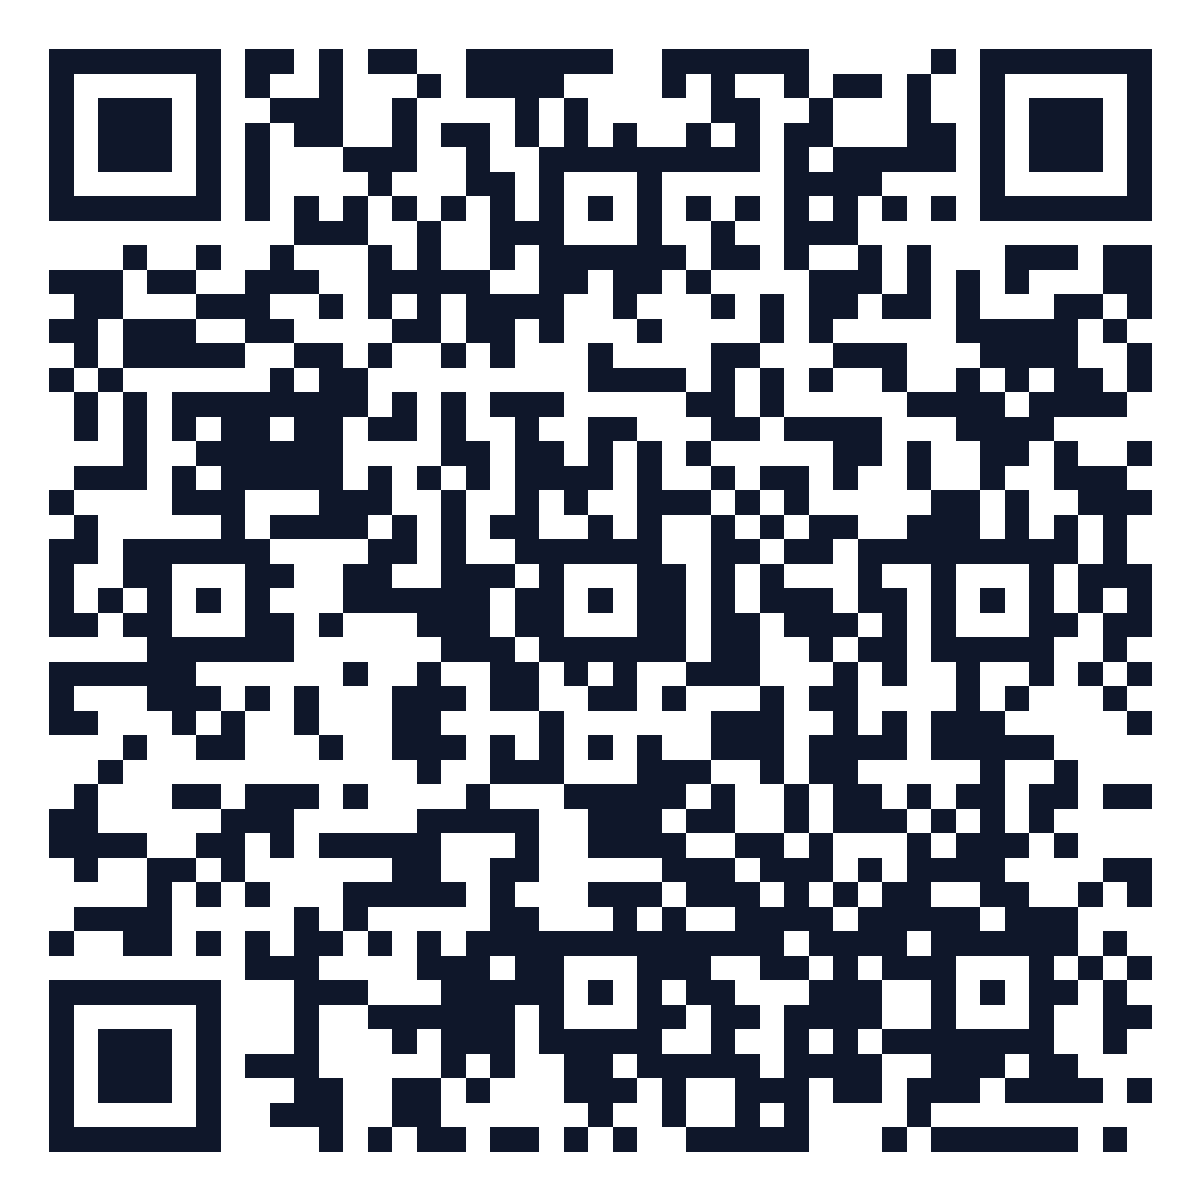
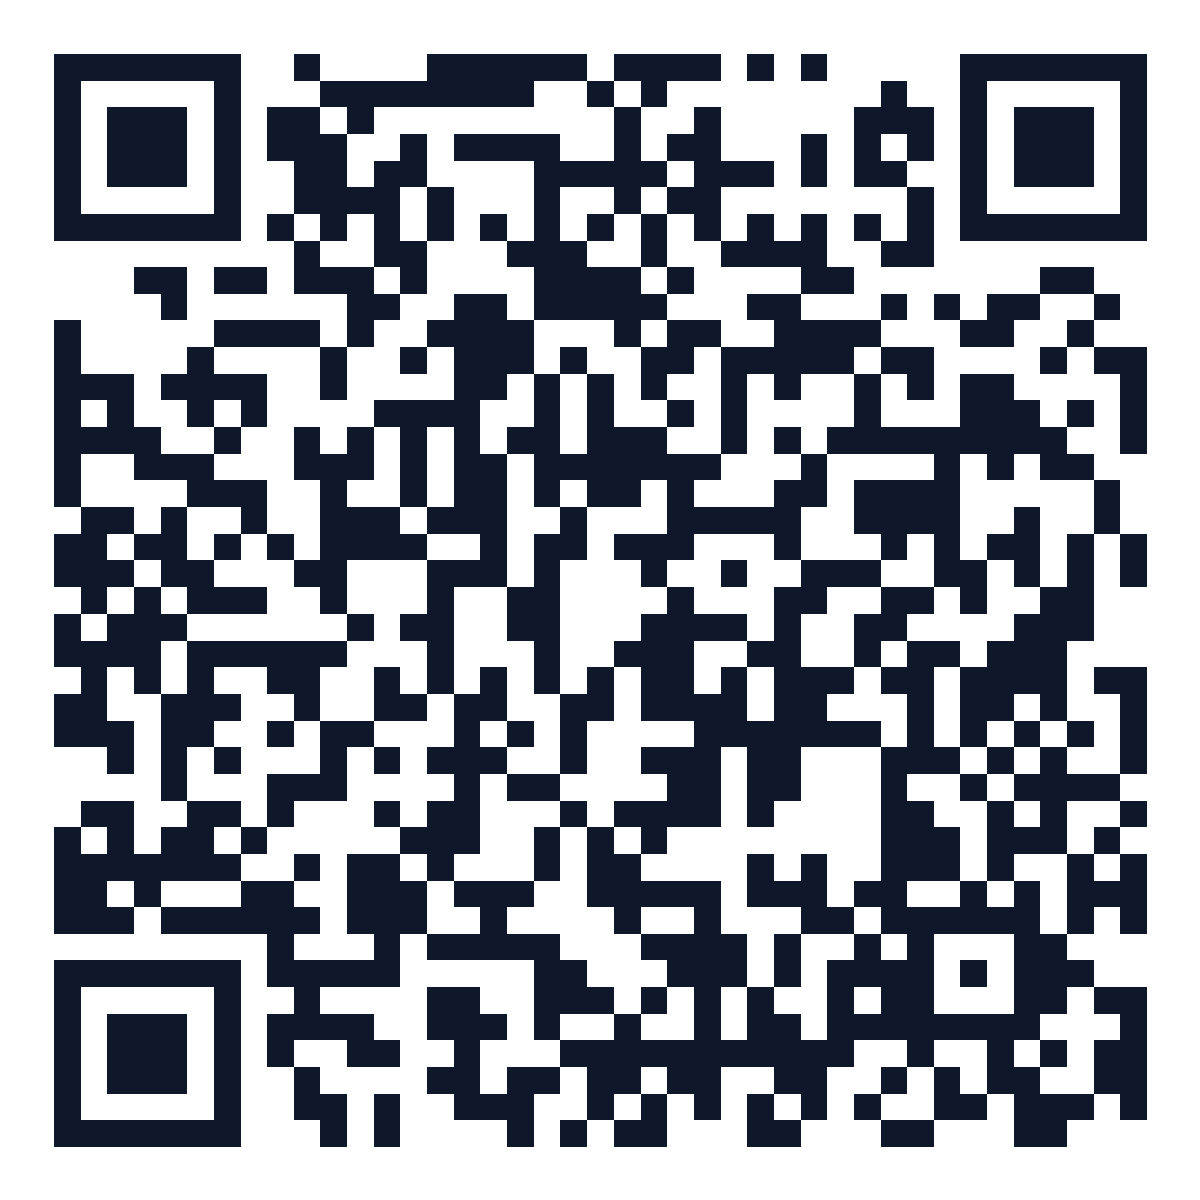
Update URLs and QR codes for oslocenter-kenya-programs.pages.dev

diff --git a/qr-print.html b/qr-print.html
@@ -50,7 +50,7 @@
       <div>
         <img src="assets/qr/wyde-qr.png" alt="WYDE QR Code" class="stand-qr" />
         <p class="stand-instructions">📲 Scan to View Online Program</p>
-        <p class="stand-url">https://pizzel.github.io/elementaita-programs-2026/wyde.html</p>
+        <p class="stand-url">https://oslocenter-kenya-programs.pages.dev/wyde.html</p>
       </div>
       <div class="stand-footer">
         The Oslo Center (TOC) & KIC · WYDE Political Parties / ENoP / European Union
@@ -66,7 +66,7 @@
       <div>
         <img src="assets/qr/ewip-qr.png" alt="EWIP QR Code" class="stand-qr" />
         <p class="stand-instructions">📲 Scan to View Online Program</p>
-        <p class="stand-url">https://pizzel.github.io/elementaita-programs-2026/ewip.html</p>
+        <p class="stand-url">https://oslocenter-kenya-programs.pages.dev/ewip.html</p>
       </div>
       <div class="stand-footer">
         The Oslo Center (TOC) & KIC · Empowering Women in Politics

diff --git a/ewip.html b/ewip.html
@@ -147,7 +147,7 @@
         <div class="qr-preview-box">
           <img id="modal-qr-img" class="qr-image-display" src="assets/qr/ewip-qr.png" alt="EWIP QR Code" />
           <p class="qr-title">Scan to View EWIP Kenya Program</p>
-          <p class="qr-url-text" id="modal-qr-url">https://pizzel.github.io/elementaita-programs-2026/ewip.html</p>
+          <p class="qr-url-text" id="modal-qr-url">https://oslocenter-kenya-programs.pages.dev/ewip.html</p>
         </div>
         <div class="qr-actions-grid">
           <a id="btn-download-qr-png" class="btn-primary" href="assets/qr/ewip-qr.png" download="ewip-program-qr.png" style="background:#c2410c;">

diff --git a/wyde.html b/wyde.html
@@ -148,7 +148,7 @@
         <div class="qr-preview-box">
           <img id="modal-qr-img" class="qr-image-display" src="assets/qr/wyde-qr.png" alt="WYDE QR Code" />
           <p class="qr-title">Scan to View WYDE Youth Program</p>
-          <p class="qr-url-text" id="modal-qr-url">https://pizzel.github.io/elementaita-programs-2026/wyde.html</p>
+          <p class="qr-url-text" id="modal-qr-url">https://oslocenter-kenya-programs.pages.dev/wyde.html</p>
         </div>
         <div class="qr-actions-grid">
           <a id="btn-download-qr-png" class="btn-primary" href="assets/qr/wyde-qr.png" download="wyde-program-qr.png" style="background:#0284c7;">

diff --git a/README.md b/README.md
@@ -8,10 +8,11 @@ Hosted and organized by **The Oslo Center (TOC)** with support from the **Christ
 
 ## 🌐 Live Online Programs & Links
 
-- **Main Hub & Portal**: [https://pizzel.github.io/elementaita-programs-2026/](https://pizzel.github.io/elementaita-programs-2026/)
-- **WYDE Youth Program**: [https://pizzel.github.io/elementaita-programs-2026/wyde.html](https://pizzel.github.io/elementaita-programs-2026/wyde.html)
-- **EWIP Kenya Program**: [https://pizzel.github.io/elementaita-programs-2026/ewip.html](https://pizzel.github.io/elementaita-programs-2026/ewip.html)
-- **Printable Table Standees & QR Signs**: [https://pizzel.github.io/elementaita-programs-2026/qr-print.html](https://pizzel.github.io/elementaita-programs-2026/qr-print.html)
+- **Main Hub & Portal**: [https://oslocenter-kenya-programs.pages.dev/](https://oslocenter-kenya-programs.pages.dev/)
+- **WYDE Youth Program**: [https://oslocenter-kenya-programs.pages.dev/wyde.html](https://oslocenter-kenya-programs.pages.dev/wyde.html)
+- **EWIP Kenya Program**: [https://oslocenter-kenya-programs.pages.dev/ewip.html](https://oslocenter-kenya-programs.pages.dev/ewip.html)
+- **Printable Table Standees & QR Signs**: [https://oslocenter-kenya-programs.pages.dev/qr-print.html](https://oslocenter-kenya-programs.pages.dev/qr-print.html)
+- **GitHub Pages Fallback**: [https://pizzel.github.io/elementaita-programs-2026/](https://pizzel.github.io/elementaita-programs-2026/)
 
 ---
 
